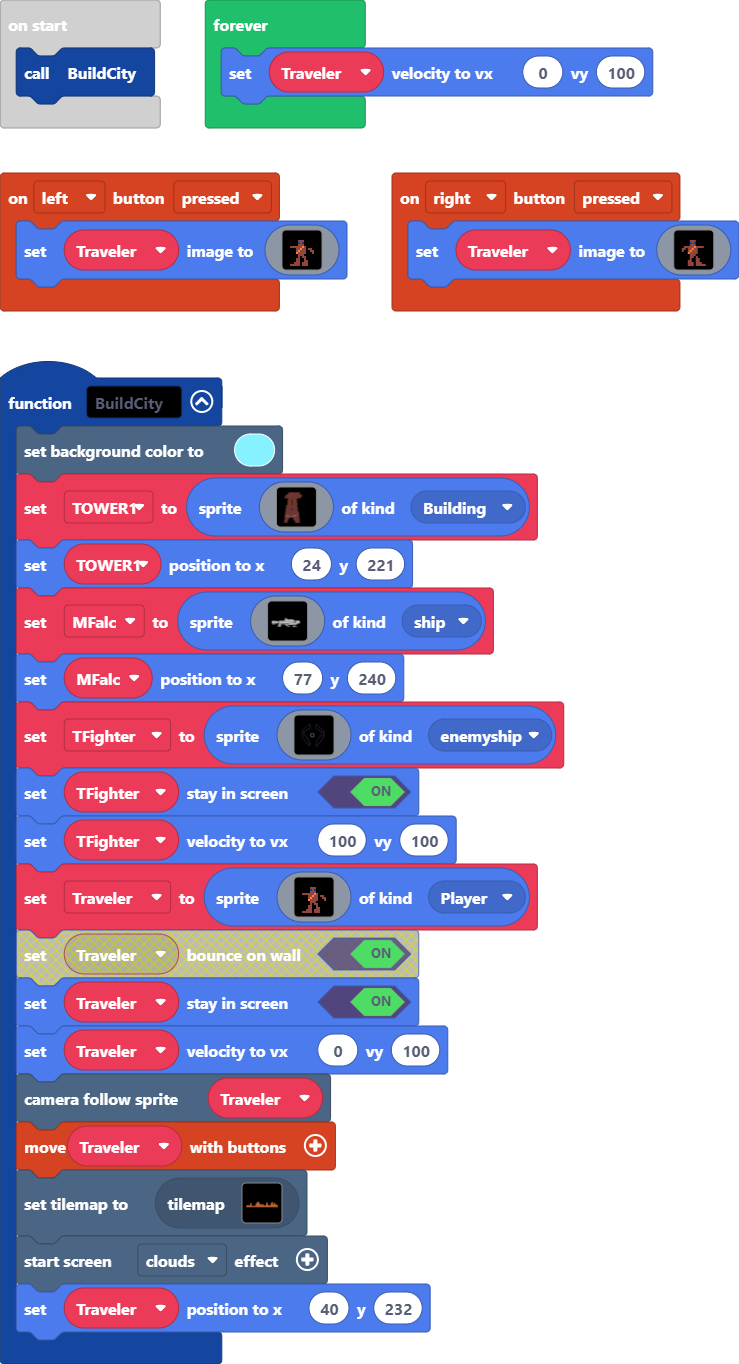
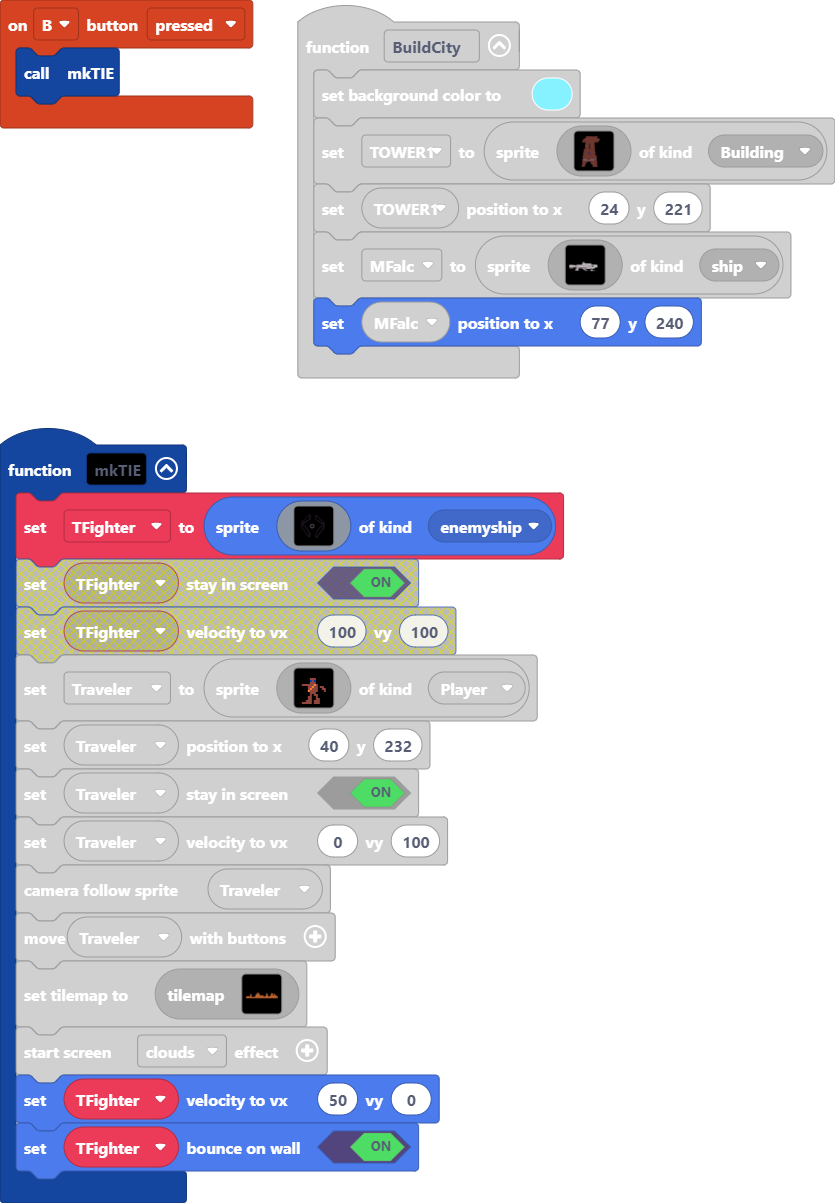
Update main.blocks, main.ts, tilemap.g.jres, tilemap.g.ts

diff --git a/tilemap.g.ts b/tilemap.g.ts
@@ -57,6 +57,25 @@ namespace myTiles {
 . . . . . . . . . . . . . . . . 
 . . . . . . . . . . . . . . . . 
 `, [myTiles.transparency16], TileScale.Sixteen);
+            case "level3":
+            case "level3":return tiles.createTilemap(hex`1000100000000000000000000000000000000000000000000000000000000000000000000000000000000000000000000000000000000000000000000000000000000000000000000000000000000000000000000000000000000000000000000000000000000000000000000000000000000000000000000000000000000000000000000000000000000000000000000000000000000000000000000000000000000000000000000000000000000000000000000000000000000000000000000000000000000000000000000000000000000000000000000000000000000000000000000000000000000000000000000000000000000000000000000000000000000000`, img`
+. . . . . . . . . . . . . . . . 
+. . . . . . . . . . . . . . . . 
+. . . . . . . . . . . . . . . . 
+. . . . . . . . . . . . . . . . 
+. . . . . . . . . . . . . . . . 
+. . . . . . . . . . . . . . . . 
+. . . . . . . . . . . . . . . . 
+. . . . . . . . . . . . . . . . 
+. . . . . . . . . . . . . . . . 
+. . . . . . . . . . . . . . . . 
+. . . . . . . . . . . . . . . . 
+. . . . . . . . . . . . . . . . 
+. . . . . . . . . . . . . . . . 
+. . . . . . . . . . . . . . . . 
+. . . . . . . . . . . . . . . . 
+. . . . . . . . . . . . . . . . 
+`, [myTiles.transparency16], TileScale.Sixteen);
         }
         return null;
     })

diff --git a/main.ts b/main.ts
@@ -9,9 +9,6 @@ function BuildCity () {
     TOWER1.setPosition(24, 221)
     MFalc = sprites.create(assets.image`Falcon`, SpriteKind.ship)
     MFalc.setPosition(77, 240)
-    TFighter = sprites.create(assets.image`TIE`, SpriteKind.enemyship)
-    TFighter.setStayInScreen(true)
-    TFighter.setVelocity(100, 100)
     Traveler = sprites.create(assets.image`wookiel`, SpriteKind.Player)
     Traveler.setPosition(40, 232)
     Traveler.setStayInScreen(true)
@@ -21,14 +18,22 @@ function BuildCity () {
     tiles.setCurrentTilemap(tilemap`TwinSpires`)
     effects.clouds.startScreenEffect()
 }
+controller.B.onEvent(ControllerButtonEvent.Pressed, function () {
+    mkTIE()
+})
 controller.left.onEvent(ControllerButtonEvent.Pressed, function () {
     Traveler.setImage(assets.image`wookiel`)
 })
 controller.right.onEvent(ControllerButtonEvent.Pressed, function () {
     Traveler.setImage(assets.image`wookier`)
 })
-let Traveler: Sprite = null
+function mkTIE () {
+    TFighter = sprites.create(assets.image`TIE`, SpriteKind.enemyship)
+    TFighter.setVelocity(50, 0)
+    TFighter.setBounceOnWall(true)
+}
 let TFighter: Sprite = null
+let Traveler: Sprite = null
 let MFalc: Sprite = null
 let TOWER1: Sprite = null
 BuildCity()
